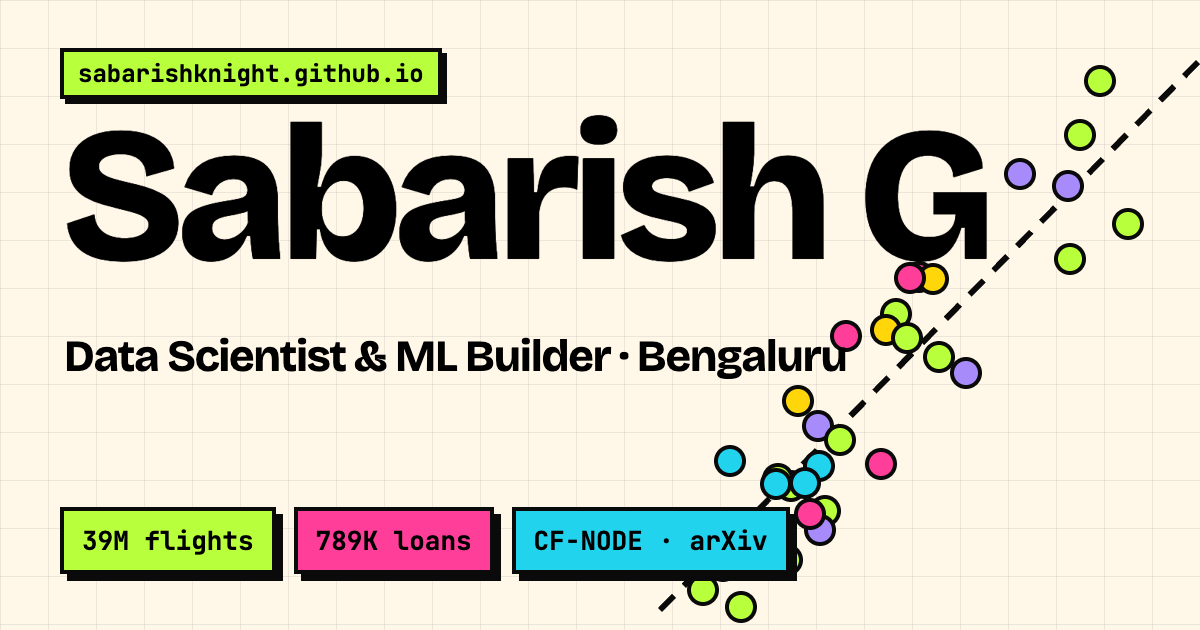
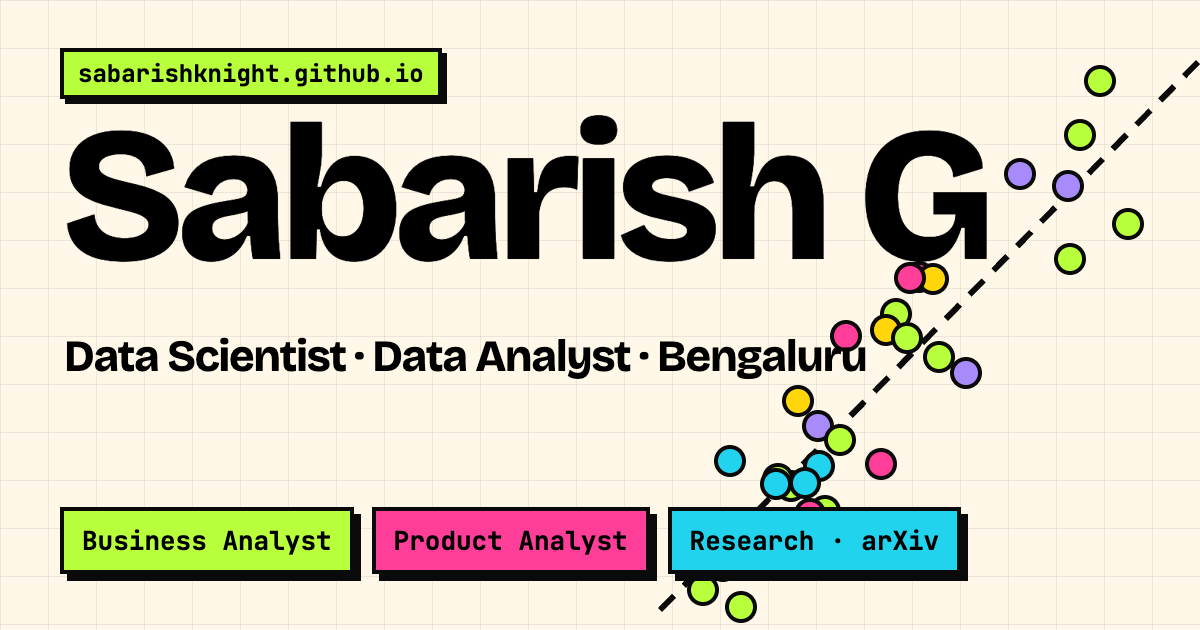
Update page title, link preview and social card to new roles

Changed region(s): [[0.0617, 0.7841, 0.8325, 0.9349], [0.2775, 0.5429, 0.74, 0.6032]]

diff --git a/index.html b/index.html
@@ -3,20 +3,20 @@
   <head>
     <meta charset="UTF-8" />
     <meta name="viewport" content="width=device-width, initial-scale=1.0" />
-    <title>Sabarish G · Data Scientist & ML Builder</title>
-    <meta name="description" content="Sabarish G, data scientist and ML builder in Bengaluru. Flight-delay prediction on 39M flights, a credit policy on 789K loans, CF-NODE test-time adaptation research, AI agents and analytics." />
+    <title>Sabarish G · Data Scientist, Data Analyst, Business &amp; Product Analyst</title>
+    <meta name="description" content="Sabarish G, Bengaluru. Open to data scientist, data analyst, business analyst and product analyst roles. Finance background, MS Business Analytics, first-author research on arXiv." />
     <link rel="canonical" href="https://sabarishknight.github.io/" />
     <link rel="icon" type="image/svg+xml" href="/favicon.svg" />
     <meta name="theme-color" content="#FFF7E8" />
     <meta property="og:type" content="website" />
     <meta property="og:url" content="https://sabarishknight.github.io/" />
-    <meta property="og:title" content="Sabarish G · Data Scientist & ML Builder" />
-    <meta property="og:description" content="Domain-first data science: 39M flights, 789K loans, a first-author CV paper on arXiv, and a site you can play with." />
+    <meta property="og:title" content="Sabarish G · Data Scientist, Data Analyst, Business &amp; Product Analyst" />
+    <meta property="og:description" content="Data scientist, data analyst, business and product analyst. Finance roots, analytics projects, a research paper, and a site you can play with." />
     <meta property="og:image" content="https://sabarishknight.github.io/og.png" />
     <meta property="og:image:alt" content="Sabarish G portfolio card with scatter-plot motif" />
     <meta name="twitter:card" content="summary_large_image" />
-    <meta name="twitter:title" content="Sabarish G · Data Scientist & ML Builder" />
-    <meta name="twitter:description" content="Domain-first data science: 39M flights, 789K loans, a first-author CV paper on arXiv." />
+    <meta name="twitter:title" content="Sabarish G · Data Scientist, Data Analyst, Business &amp; Product Analyst" />
+    <meta name="twitter:description" content="Data scientist, data analyst, business and product analyst. Finance roots, analytics projects and a research paper." />
     <meta name="twitter:image" content="https://sabarishknight.github.io/og.png" />
     <script type="application/ld+json">
       {
